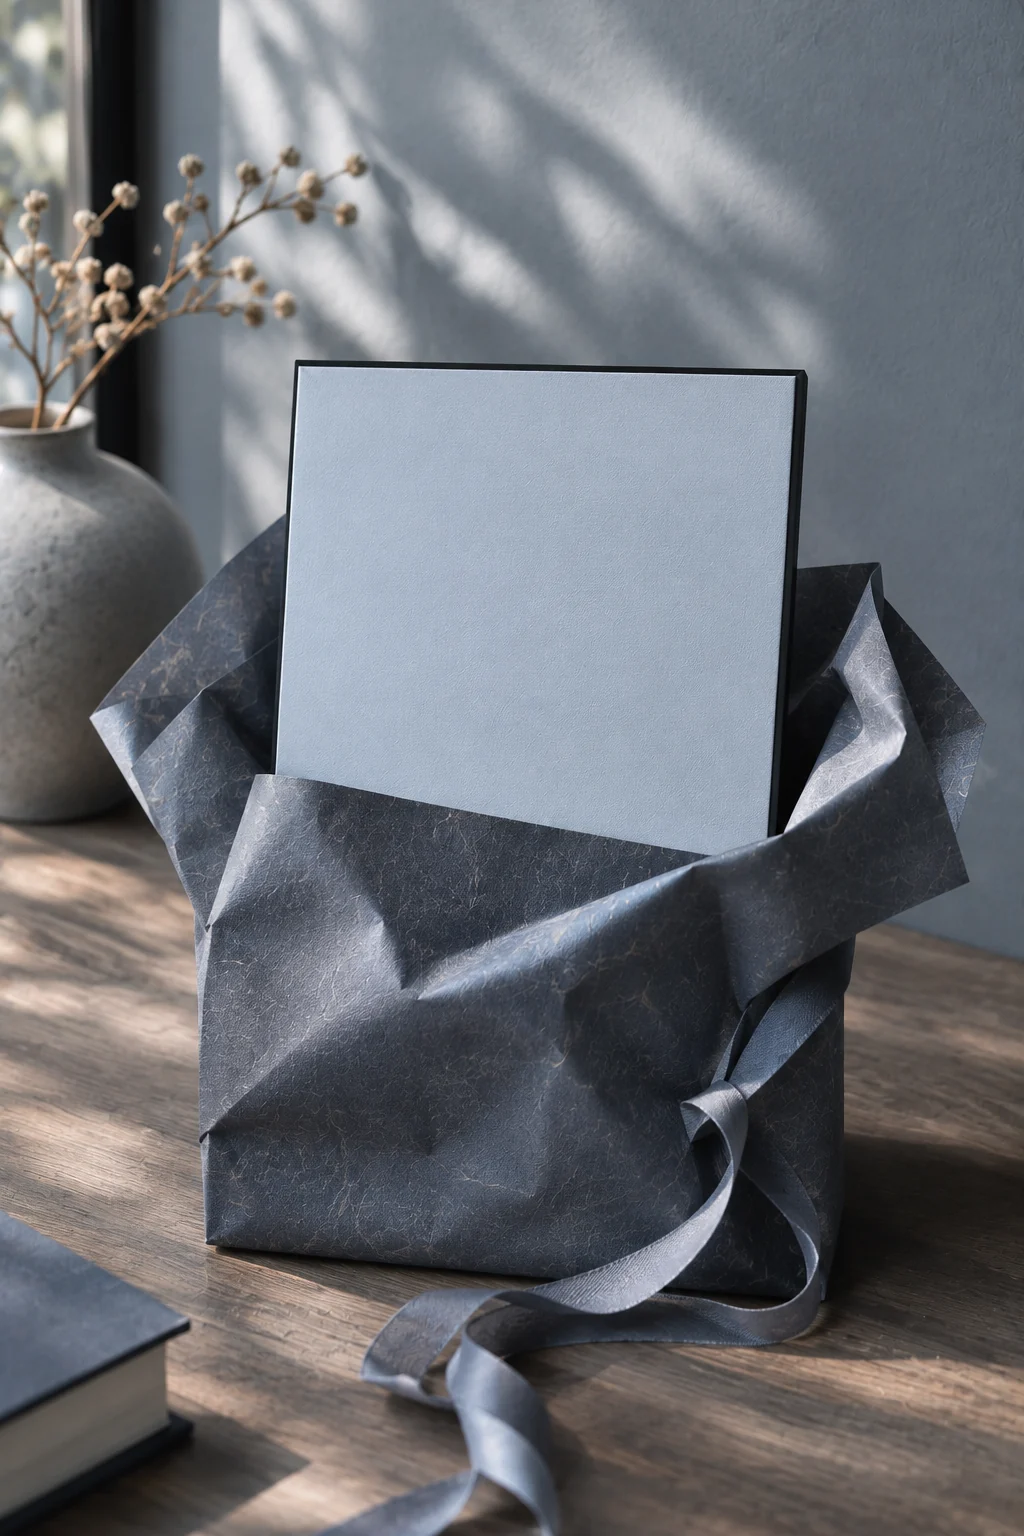
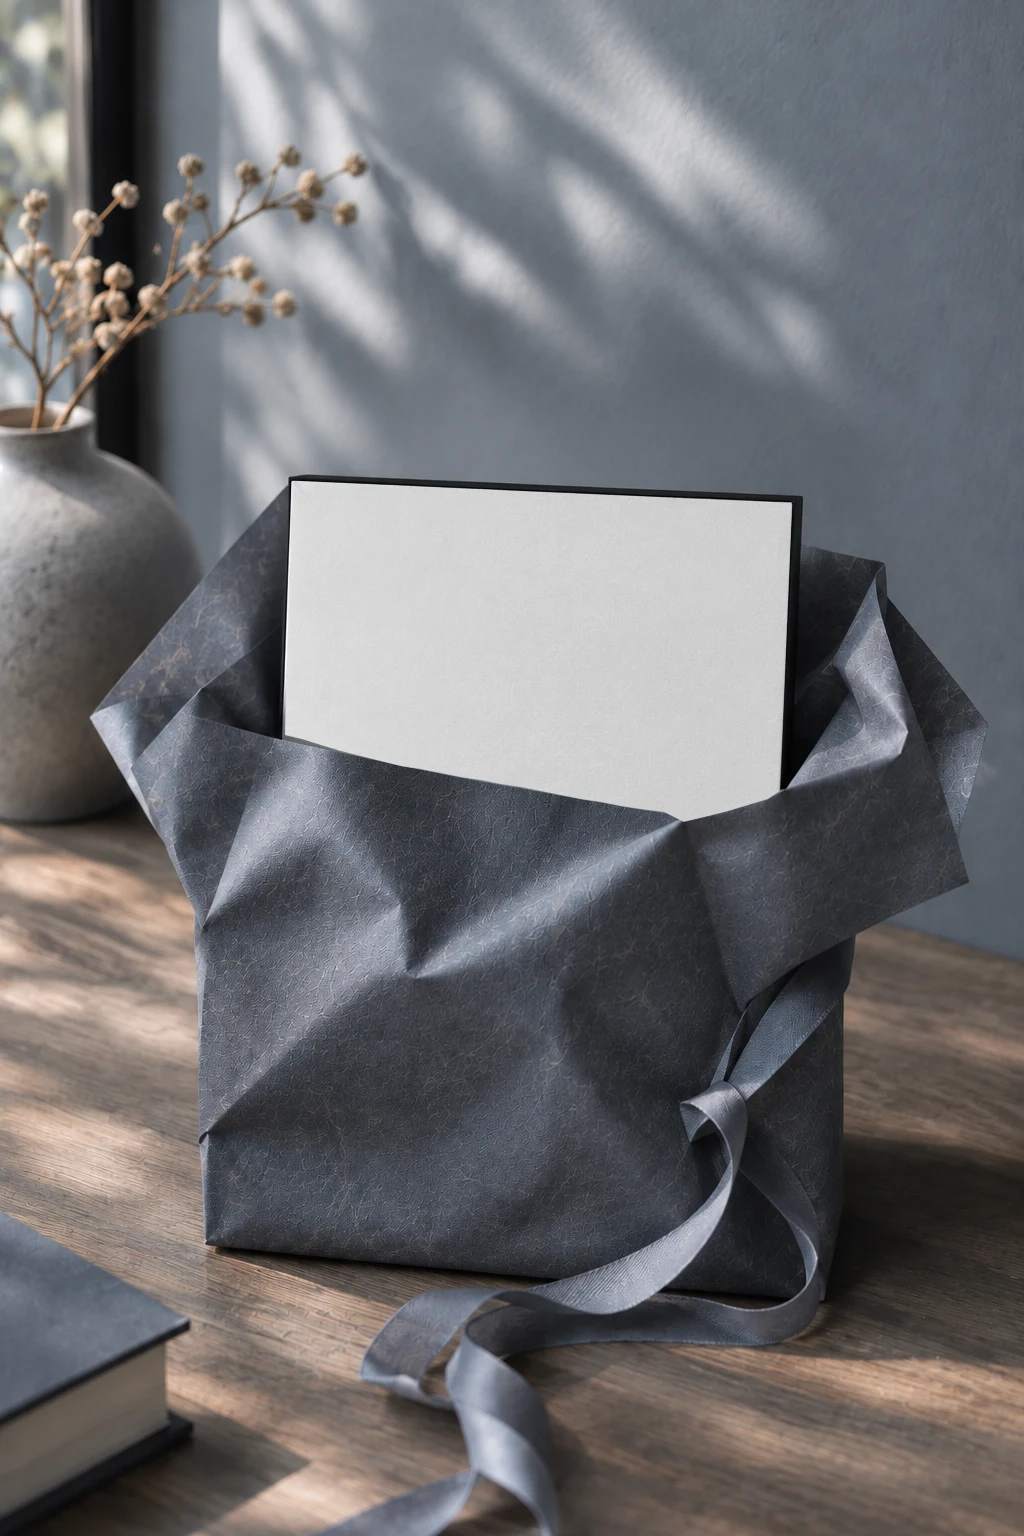
fix(shop): align half-unwrapped canvas and hide star circle beneath paper

diff --git a/components/shop/NemadManMockupGenerator.tsx b/components/shop/NemadManMockupGenerator.tsx
@@ -77,34 +77,31 @@ const SCENES: MockupScene[] = [
     ],
     suffix: '-desk-10x15',
   },
-  { id: 'gift-wrap', label: 'کادوی نیمهباز · حدود ۶۰٪ طرح نمایان',
+  { id: 'gift-wrap', label: 'کادوی نیمهباز · دایره زیر کاغذ',
     path: '/shop-preview/nemad-man/mockup-blank-gift-wrap.webp',
-    // Full 2:3 canvas remains behind wrapping; only the real exposed face is painted.
-    // Front and wrapping seam are calibrated from the user-approved preview.
+    // Full portrait 2:3 art stays behind the photographed wrapping. Only the
+    // real exposed area is clipped; a substantial part of the star circle is hidden.
     front: [
-      { x: 299, y: 366 }, { x: 794, y: 379 },
-      { x: 768, y: 1101 }, { x: 255, y: 1080 },
+      { x: 291.000, y: 480.500 }, { x: 791.500, y: 502.800 },
+      { x: 767.000, y: 1261.000 }, { x: 264.500, y: 1233.500 },
     ],
-    // The gift-paper seam is curved. A four-corner trapezoid leaves white
-    // slivers where the paper meets a dark design; trace the physical lip.
+    // Image-derived paper contact curve from the approved gift photograph.
     visible: [
-      { x: 299, y: 366 }, { x: 793, y: 379 },
-      { x: 771, y: 855 }, { x: 750, y: 854 },
-      { x: 725, y: 858 }, { x: 700, y: 854 },
-      { x: 675, y: 849 }, { x: 650, y: 845 },
-      { x: 625, y: 841 }, { x: 600, y: 836 },
-      { x: 575, y: 831 }, { x: 550, y: 827 },
-      { x: 525, y: 822 }, { x: 500, y: 818 },
-      { x: 475, y: 813 }, { x: 450, y: 808 },
-      { x: 425, y: 803 }, { x: 400, y: 798 },
-      { x: 375, y: 793 }, { x: 350, y: 788 },
-      { x: 325, y: 782 }, { x: 300, y: 778 },
-      { x: 274, y: 774 },
+      { x: 291.000, y: 480.500 }, { x: 791.500, y: 502.800 },
+      { x: 780.000, y: 791.000 }, { x: 768.000, y: 799.000 }, { x: 748.000, y: 805.000 },
+      { x: 728.000, y: 811.000 }, { x: 708.000, y: 816.000 }, { x: 683.000, y: 822.000 },
+      { x: 663.000, y: 812.000 }, { x: 640.000, y: 809.000 }, { x: 620.000, y: 806.000 },
+      { x: 600.000, y: 802.000 }, { x: 580.000, y: 799.000 }, { x: 560.000, y: 795.000 },
+      { x: 540.000, y: 791.000 }, { x: 520.000, y: 787.000 }, { x: 500.000, y: 784.000 },
+      { x: 480.000, y: 780.000 }, { x: 460.000, y: 777.000 }, { x: 440.000, y: 773.000 },
+      { x: 420.000, y: 769.000 }, { x: 400.000, y: 766.000 }, { x: 380.000, y: 761.000 },
+      { x: 360.000, y: 756.000 }, { x: 340.000, y: 751.000 }, { x: 320.000, y: 745.000 },
+      { x: 301.000, y: 739.000 }, { x: 284.000, y: 735.000 },
     ],
     inverse: [
-      0.00208978510766976, 0.000128782275542674, -0.671980060041878,
-      -3.90574247592383e-05, 0.00148718655814023, -0.532632110276311,
-      1.96015039809362e-05, 5.42327274873981e-05,
+      0.00202213726921787, 7.11641934054095e-05, -0.622636340273698,
+      -5.9741244622612e-05, 0.00134083001350543, -0.62688411930418,
+      1.32953775545867e-05, 6.25173554025243e-06,
     ],
     suffix: '-gift-wrap',
   },
@@ -522,7 +519,7 @@ function compose(scene: HTMLImageElement, poster: ImageBitmap, mockup: MockupSce
   }
   ctx.lineJoin = 'round';
   ctx.strokeStyle = '#0c0e10';
-  ctx.lineWidth = 1.8;
+  ctx.lineWidth = mockup.id === 'gift-wrap' ? 3.5 : 1.8;
   ctx.stroke();
   return canvas;
 }
